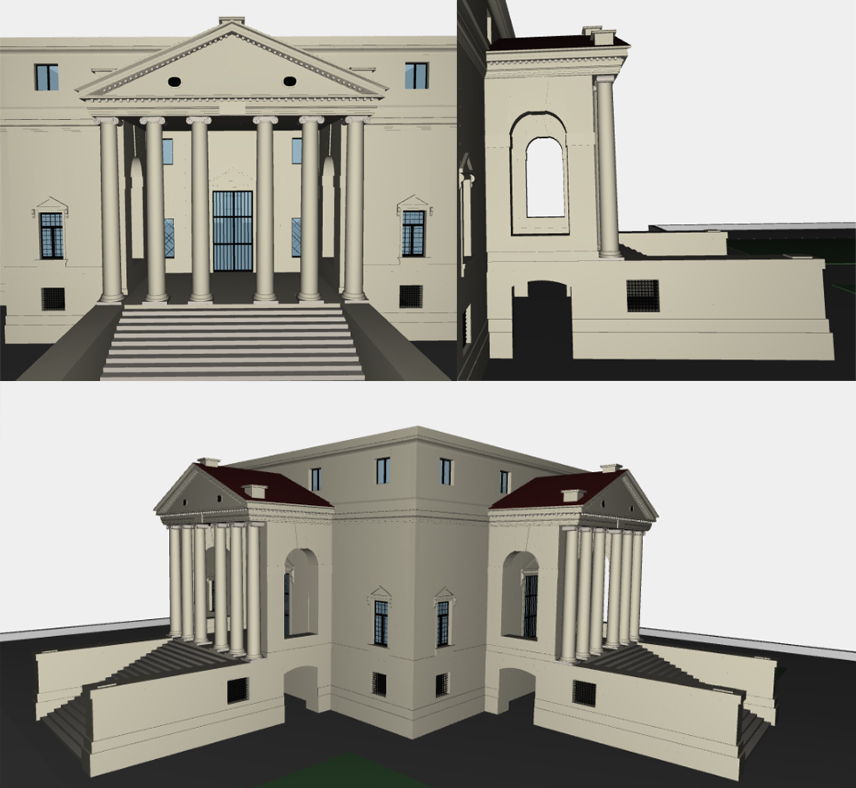
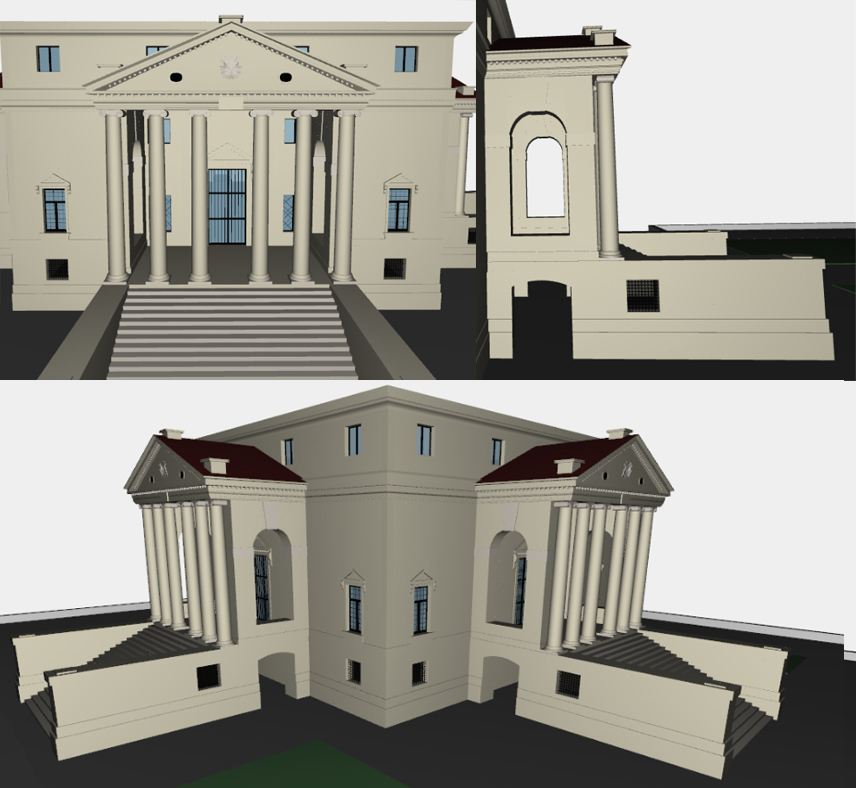
Updated

Changed region(s): [[0.0, 0.0, 1.0, 1.0]]

diff --git a/model.js b/model.js
@@ -1370,17 +1370,17 @@
 			var Arcade = [];
 			
 			var m =	SIMPLEX_GRID([[0,0.8],[0,3.6],[0,0.3]]);
-			Arcade.push(m);
+			Arcade.push(COLOR(baseColor)(m));
 			var m1 =	SIMPLEX_GRID([[0,0.8-0.07],[0,3.6-0.035],[0,0.5]]);
-			Arcade.push(T([0,1,2])([0.035,0.035,0.3])(m1));
+			Arcade.push(COLOR(baseColor)(T([0,1,2])([0.035,0.035,0.3])(m1)));
 			var m2 =	SIMPLEX_GRID([[0,0.8-0.07],[0,0.9-0.035],[0,6-(0.5+0.3)]]);
-			Arcade.push(T([0,1,2])([0.035,0.035,0.3+0.5])(m2));
+			Arcade.push(COLOR(baseColor)(T([0,1,2])([0.035,0.035,0.3+0.5])(m2)));
 			var m3 =	SIMPLEX_GRID([[0,0.8-0.07],[0,0.8],[0,6-(0.5+0.3)]]);
-			Arcade.push(T([0,1,2])([0.035,0.9+1.9,0.3+0.5])(m3));
+			Arcade.push(COLOR(baseColor)(T([0,1,2])([0.035,0.9+1.9,0.3+0.5])(m3)));
 			var m4 =	SIMPLEX_GRID([[0,0.8],[0,0.9+0.035],[0,0.4]]);
-			Arcade.push(T([2])([6-1.9-0.4])(m4));
+			Arcade.push(COLOR(columnsColor)(T([2])([6-1.9-0.4])(m4)));
 			var m5 =	SIMPLEX_GRID([[0,0.8],[0,0.8+0.035+0.02],[0,0.4]]);
-			Arcade.push(T([1,2])([0.9+1.9-0.035,6-1.9-0.4])(m5));
+			Arcade.push(COLOR(columnsColor)(T([1,2])([0.9+1.9-0.035,6-1.9-0.4])(m5)));
 
 			var p0 = [[0.035,0,6],[0.035,1.9,6],[0.035,1.9,6]];
 			var k0 = makeKnots(p0,2);
@@ -1403,7 +1403,7 @@
 			var surf1 = BEZIER(S1)([c2,c3]);
 			var surf2 = BEZIER(S2)([surf0,surf1]);
 			surf2 = MAP(surf2)(domain3);
-			Arcade.push(T([1])([0.9])(surf2));
+			Arcade.push(COLOR(baseColor)(T([1])([0.9])(surf2)));
 
 
 			var p0 = [[0,0,6],[0,0.8,6],[0,0.8,6]];
@@ -1427,9 +1427,9 @@
 			var surf1 = BEZIER(S1)([c2,c3]);
 			var surf2 = BEZIER(S2)([surf0,surf1]);
 			surf2 = MAP(surf2)(domain3);
-			Arcade.push(T([1])([0.9+0.95-0.4])(surf2));
+			Arcade.push(COLOR(columnsColor)(T([1])([0.9+0.95-0.4])(surf2)));
 
-			return COLOR(baseColor)(STRUCT(Arcade));
+			return STRUCT(Arcade);
 		}
 
 		columns.push(drawArcade());
@@ -1527,8 +1527,18 @@
 			var a1 = drawAngle();
 			Tympanum.push(T([0])([8.79])(a1));
 			Tympanum.push(S([0])([-1])(a1));
+
+			Tympanum.push(T([1,2])([0.8,0.5-0.05])(COLOR(baseColor)(
+				SIMPLEX_GRID([[0,8.79],[0,4.4-0.8],[0,0.05]]))));
+
+			Tympanum.push(T([1,2])([0.8,0])(COLOR(baseColor)(
+				SIMPLEX_GRID([[0,0.8-0.035],[0,4.4-0.8],[0,0.5]]))));
+			Tympanum.push(T([0,1,2])([8.79-0.8+0.035,0.8,0])(COLOR(baseColor)(
+				SIMPLEX_GRID([[0,0.8-0.035],[0,4.4-0.8],[0,0.5]]))));
+
 			Tympanum.push(T([2])([0])(COLOR(baseColor)(
-				SIMPLEX_GRID([[0,8.79],[0,4.4],[0,0.05]]))));
+				SIMPLEX_GRID([[0,8.79],[0,0.8],[0,0.5]]))));
+
 
 			//Tympanum Edge 1
 			//Angle sx
@@ -1685,37 +1695,49 @@
 
 
 			//Coat-of-arms
-			var drawCoatOfArms = function(){
-				var coatOfArms= [];
-				var co1 = 0.45; var co2 = 0; var co3 = 0.9;
-				var h1 = 0; var h2 = 0; var h3 = 0.7; var h4 = 0.8;
-				var d = -0.04;
-				var p1 = [[h1,0,co1],[h2,0,co2],
-					[h3,0,co2],[h4,0,co1],
-					[h3,0,co3],[h2,0,co3],
-					[h1,0,co1]
-					];
-				var k1 = makeKnots(p1,2);
-				var c1 = NUBS(S0)(2)(k1)(p1);
-				var p22 = [p1[0],p1[0]];
-				var c22 = BEZIER(S0)(p22);	
-				var vert0 = BEZIER(S1)([c1,c22]);
+			var drawDecoration = function(){
 
-				var p1 = movesPoints(p1,1,d);
-				var k1 = makeKnots(p1,2);
-				var c1 = NUBS(S0)(2)(k1)(p1);
-				var p22 = [p1[0],p1[0]];
-				var c22 = BEZIER(S0)(p22);	
-				var vert1 = BEZIER(S1)([c1,c22]);
+			    var domain = DOMAIN([[0,1],[0,1]])([90,1]); 
 
-				var s0 = BEZIER(S2)([vert1,vert0]);
-				var mapped = MAP(s0)(domain3);
-				coatOfArms.push(mapped);
+			    var points1 = [[0,0.3,0.03],[-0.08,0.3,0],[-0.25,0.4,0],
+			    [-0.21,0.4,0],[-0.21,0.475,0.03],[-0.25,0.59,0.05],
+			      [-0.24,0.55,0.05],[-0.16,0.55,0.05],[-0.16,0.7,0.03],
+			      [-0.25,0.65,0.05],[-0.21,0.75,0.03],
+			      [-0.12,0.75,0.03],[-0.15,0.8,0.05],
+			      [0.15,0.8,0.05],[0.12,0.75,0.05],[0.21,0.75,0.05],
+			      [0.25,0.65,0.05],[0.16,0.7,0.03],[0.16,0.55,0.05],
+			      [0.24,0.55,0.05],[0.25,0.59,0.05],
+			      [0.21,0.475,0.03],[0.21,0.4,0],[0.25,0.4,0],
+			      [0.08,0.3,0],[0,0.3,0.03]
+			    ];
 
-				return COLOR(baseColor1)(STRUCT(coatOfArms))
+			    points1 = movesPoints(points1,1,-0.3);
+			    points1 = rotatePoints(points1,PI/2,0);
+			    points1 = scalePoints(points1,[1.5,1.5,1.5]);
+			    var points2 = movesPoints(points1,1,-0.03);
+
+			    var knots = makeKnots(points1,2);
+			    var curve1 = NUBS(S0)(2)(knots)(points1);
+			    var curve2 = NUBS(S0)(2)(knots)(points2);
+
+			    var p1 = [[0,0,0.3]];
+			    var p2 = [[0,0.05,0.3]]
+			    var sup3 = BEZIER(S1)([curve1,curve2]);
+			    sup3 = MAP(sup3)(domain);
+
+			    var c1 = BEZIER(S0)(p1);
+			    var curve3 = BEZIER(S1)([curve1,c1]);
+			    var surface1 = MAP(curve3)(domain);
+
+			    var c2 = BEZIER(S0)(p2);
+			    var curve4 = BEZIER(S1)([curve2,c2]);
+			    var surface2 = MAP(curve4)(domain);
+
+			    var superfice = STRUCT([sup3, surface1, surface2]);
+			    return COLOR(columnsColor)(T([0])([0])(superfice));
 			}
 
-			//Tympanum.push(T([0,2])([4.395-0.4,0.5+0.3])(drawCoatOfArms()));
+			Tympanum.push(T([0,1,2])([4.395,-0.03,0.5+0.5])(drawDecoration()));
 
 
 			var tympanumEdge1 = function(l){
